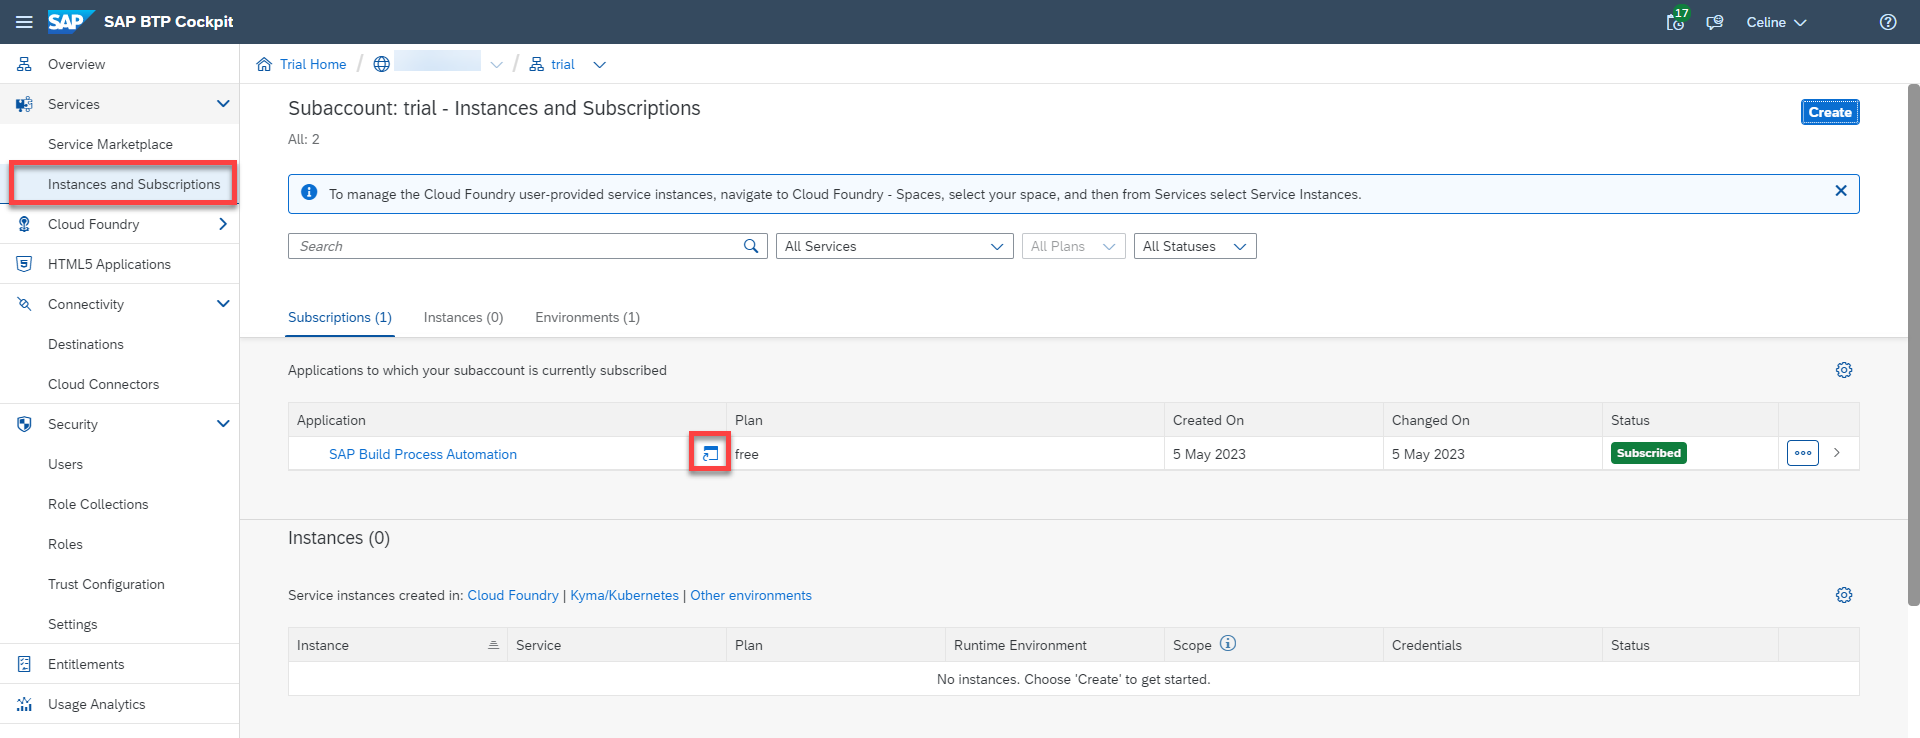
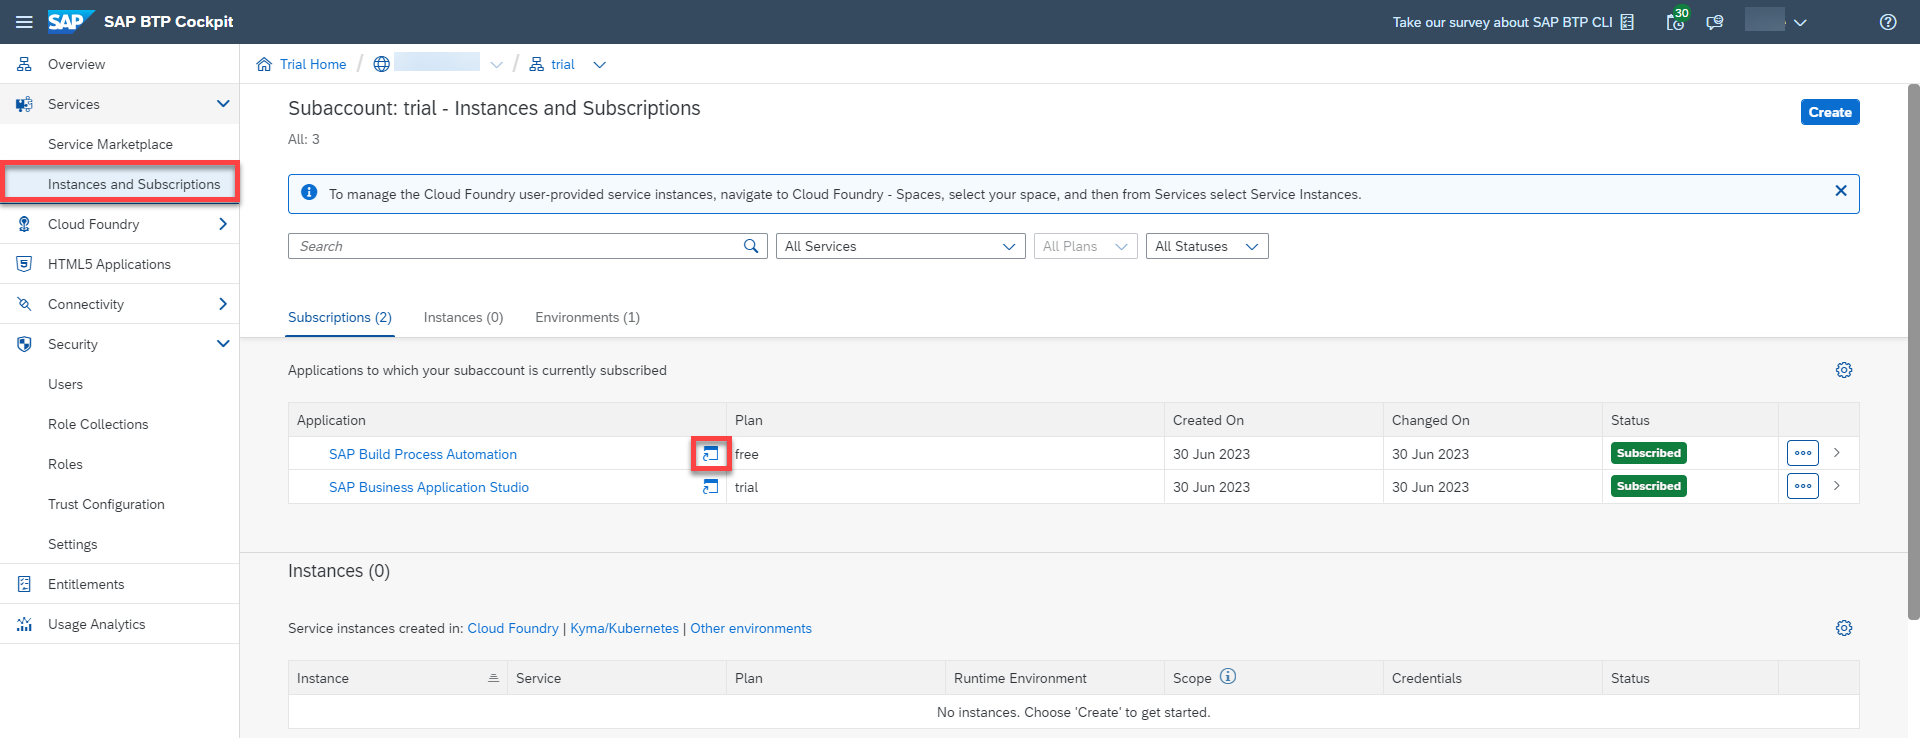
.

diff --git a/tutorials/spa-subscribe-free-trial/spa-subscribe-free-trial.md b/tutorials/spa-subscribe-free-trial/spa-subscribe-free-trial.md
@@ -9,7 +9,7 @@ primary_tag: software-product>sap-build-process-automation
 ---
 
 # Subscribe to SAP Build Process Automation Using SAP BTP Free Trial
-<!-- description --> Activate the SAP Build Process Automation service in the SAP BTP free Trial
+<!-- description --> Activate SAP Build Process Automation service in SAP BTP Free Trial
 
 ## Prerequisites
   - Complete [Get a Free Account on SAP BTP Trial tutorial](hcp-create-trial-account)
@@ -25,8 +25,9 @@ SAP Build Process Automation in the SAP Business Technology Platform combines th
 
 ### Subscribe to SAP Build Process Automation
 
+[OPTION BEGIN [Using Service Marketplace]]
 
-1. After successful creation of SAP BTP account using Free Trial, select **Service Marketplace**. In the search field, type SAP Process Build Automation and select the tile.
+1. After successful creation of SAP BTP account using Free Trial, select **Services**> **Service Marketplace**. In the search field, type **SAP Build Process Automation** and select the tile.
 
     <!-- border -->![Trial](001.png)
 
@@ -46,6 +47,23 @@ SAP Build Process Automation in the SAP Business Technology Platform combines th
 
     <!-- border -->![Trial](004freeplan.png)
 
+[OPTION END]
+
+[OPTION BEGIN [Using Entitlements]]
+
+1. Select **Entitlements**. Choose **Configure Entitlements**. 
+
+    <!-- border -->![Trial](050.png)
+
+2. Select **Add Service Plans**.
+
+    <!-- border -->![Trial](051.png)
+
+3. Look for **SAP Build Process Automation** Entitlement. Select **free** plan. Click on **Add Service Plans**.
+
+    <!-- border -->![Trial](052.png)
+
+[OPTION END]
 
 ### Assign Roles
 

diff --git a/tutorials/spa-create-forms/spa-create-forms.md b/tutorials/spa-create-forms/spa-create-forms.md
@@ -274,7 +274,7 @@ After the user approves or rejects the request, the next step is to create notif
 
 12. **Save** the process. With this you completed designing and configuring the notification form.
 
-    > You can copy the same form to create another form to send a rejection notification to the requester. If copy is not available then create the form in the same way and modify the texts wherever relevant as shown below.
+    > You can copy the same form to create another form to send a rejection notification to the requester. If copy is not available then create the form in the same way and modify the texts wherever relevant as shown below. 
 
 
 13. To add the new rejection form, you will use the **Duplicate** feature. Select the **Overview**.
